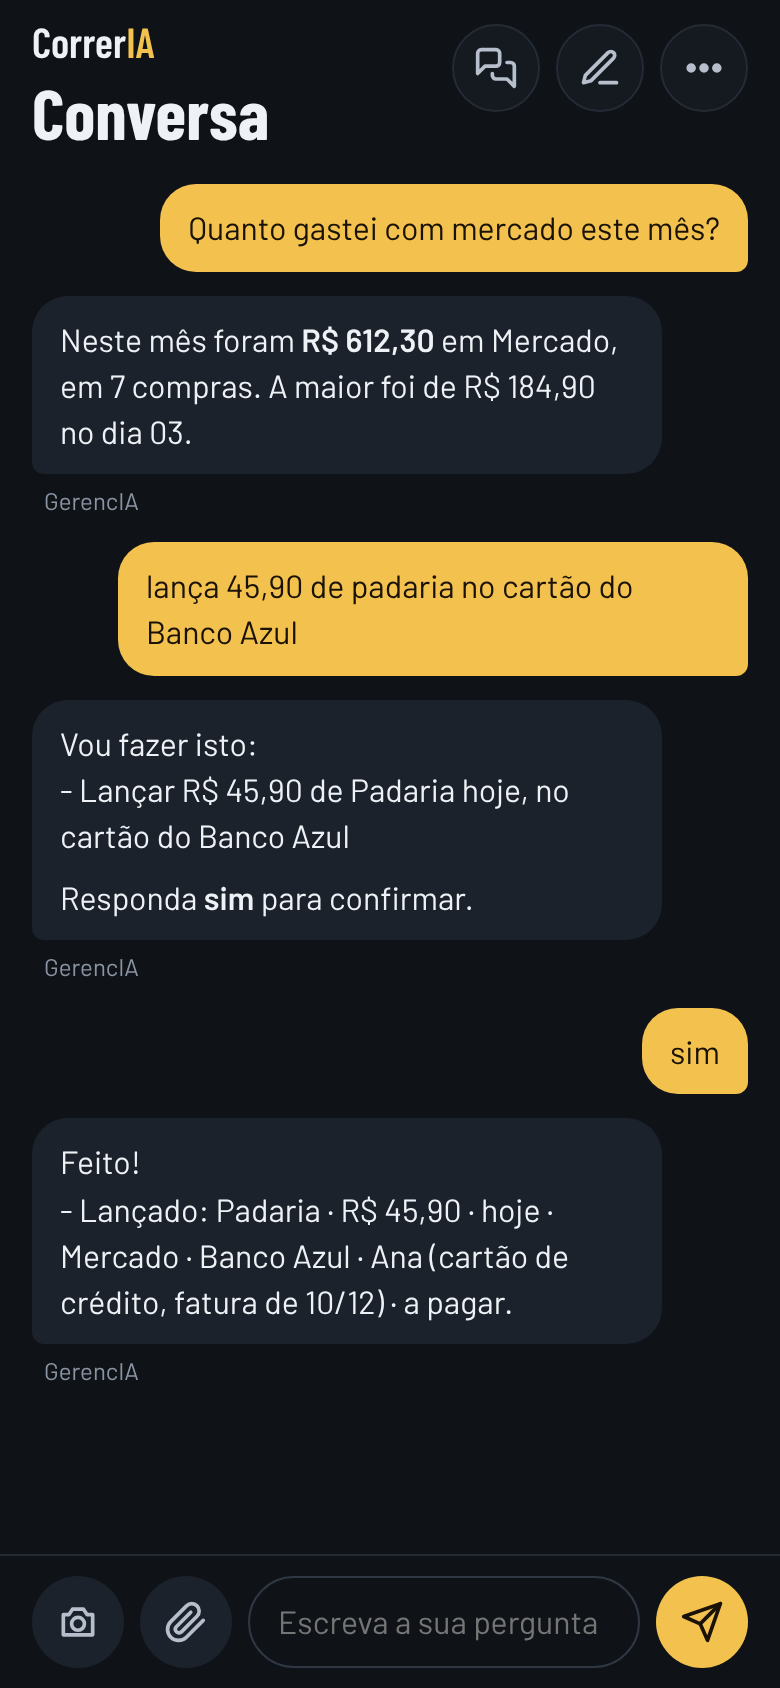
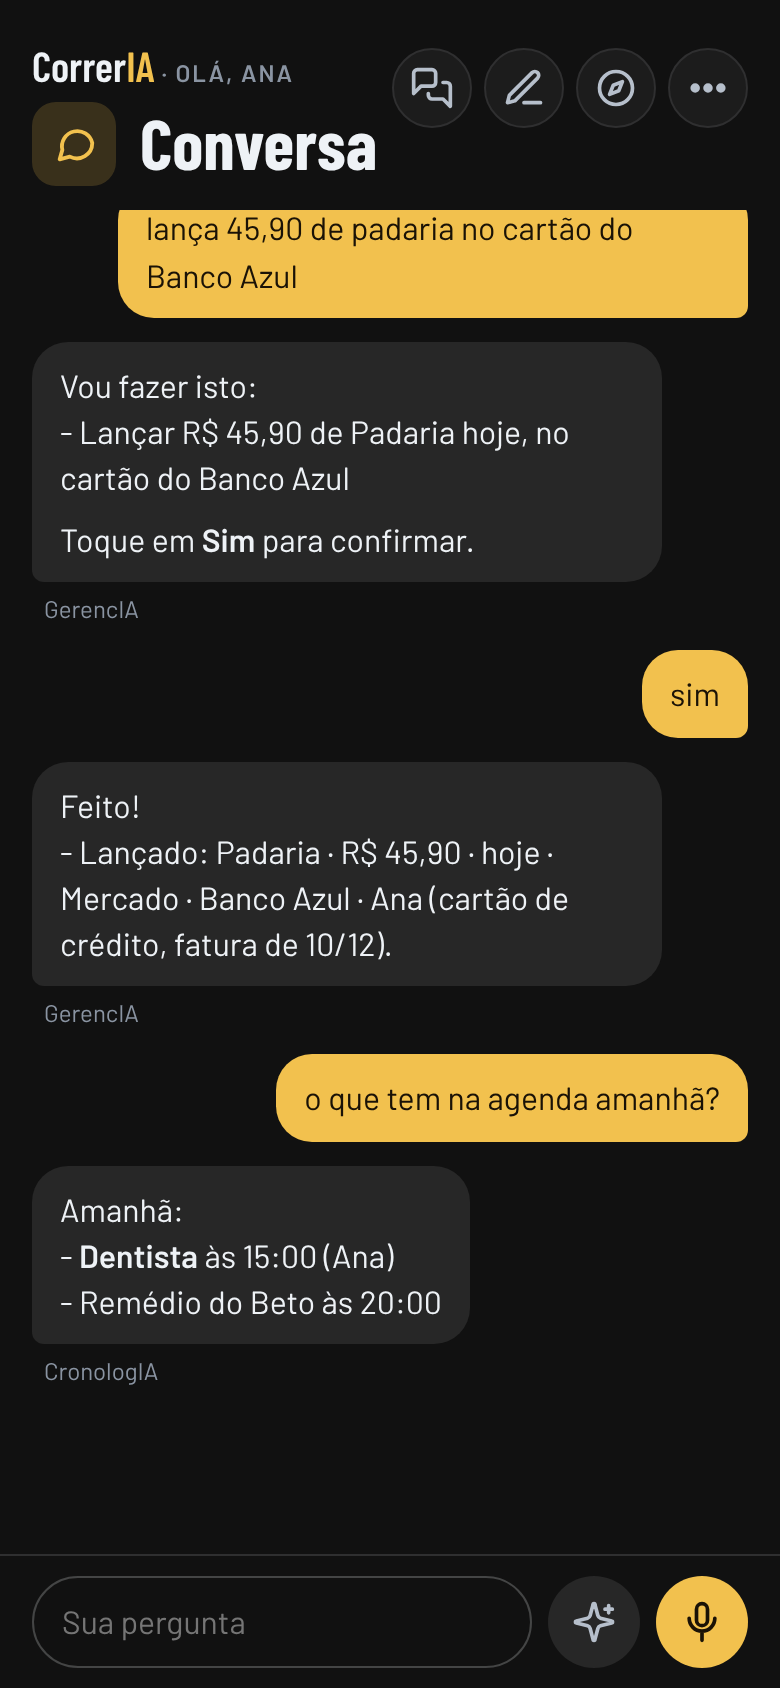
CorrerIA: o README e as capturas em dia (as Rondas, a Conversa e os sete apps)
As capturas agora saem do servidor de verdade, com os apps de mentira e uma
casa inventada (tools/prints_readme.py).

Claude-Session: https://claude.ai/code/session_017hEteHByHThDBu4uLqG9Xn

diff --git a/tools/prints_readme.py b/tools/prints_readme.py
@@ -1,77 +1,141 @@
-"""Refaz as capturas do README (docs/*.png): a tela de verdade (correria/app/www) com /api/* imitado e uma casa inventada
-(Ana, Beto). Uso: python3 tools/prints_readme.py (precisa do playwright)."""
-import json, mimetypes, os, sys
+"""Refaz as capturas do README (docs/*.png) com o servidor de verdade (correria/app/server.py), os apps da família de
+mentira (as ferramentas respondem textos inventados) e uma casa inventada (Ana, Beto, a Sala e a Cozinha).
+Uso: python3 tools/prints_readme.py (precisa do playwright). Nada sai para a internet."""
+import base64
+import hashlib
+import json
+import os
+import secrets
+import sys
+import threading
 from datetime import datetime, timedelta
-from playwright.sync_api import sync_playwright
+from http.server import ThreadingHTTPServer
+from unittest import mock
 
 RAIZ = os.path.dirname(os.path.dirname(os.path.abspath(__file__)))
-WWW, SAIDA = os.path.join(RAIZ, "correria", "app", "www"), os.path.join(RAIZ, "docs")
+sys.path.insert(0, RAIZ)
+from playwright.sync_api import sync_playwright  # noqa: E402
+
+from tests.base import importar_servidor, MetaFalsa  # noqa: E402
+S = importar_servidor()
+import apps  # noqa: E402
+from tests.test_rondas import AppDaRonda, ferr, COM_COMODO  # noqa: E402
+
+SAIDA = os.path.join(RAIZ, "docs")
+CAB = {"X-Remote-User-Id": "u-ana", "X-Remote-User-Display-Name": "Ana Exemplo"}
 agora = datetime.now().replace(second=0, microsecond=0)
-iso = lambda m: (agora - timedelta(minutes=m)).isoformat(timespec="seconds")
-APPS = [
-    {"app": "cronologia", "nome": "CronologIA", "assunto": "agenda da família: compromissos, rotinas, remédios e placar", "versao": "1.60.0", "anexos": [], "conversa": False, "ferramentas": 10, "gravam": 6, "erro": ""},
-    {"app": "gerencia", "nome": "GerencIA", "assunto": "finanças da casa: caixa, contas a pagar, cartões e investimentos", "versao": "1.39.0", "anexos": ["application/pdf", "image/jpeg", "image/png", "image/webp"], "conversa": True, "ferramentas": 12, "gravam": 7, "erro": ""},
-    {"app": "inventario", "nome": "InventarIA", "assunto": "inventário da casa: cômodos, itens e valores", "versao": "1.37.0", "anexos": [], "conversa": False, "ferramentas": 8, "gravam": 5, "erro": ""},
-    {"app": "memoria", "nome": "MemorIA", "assunto": "anotações em blocos: folhas, categorias e links", "versao": "1.8.0", "anexos": [], "conversa": False, "ferramentas": 12, "gravam": 8, "erro": ""},
-    {"app": "resolvia", "nome": "ResolvIA", "assunto": "listas de tarefas com prazos, pontos e repetição", "versao": "2.49.0", "anexos": [], "conversa": False, "ferramentas": 8, "gravam": 4, "erro": ""},
-]
-def estado(pedido=False):
-    return {"versao": "0.4.0",
-            "config": {"numero_id": "109876543210", "token": "••••1234", "segredo": "••••5678", "verificacao": "k3v9-exemplo-verificacao",
-                       "endereco": "https://casa-exemplo.duckdns.org:8443", "webhook": "https://casa-exemplo.duckdns.org:8443/webhook", "ligado": True},
-            "pronto": True, "conta": {"numero": "+55 11 4000-0000", "nome": "CorrerIA Code"},
-            "mcp": {"ligado": True, "url": "https://casa-exemplo.duckdns.org:8443/mcp",
-                    "pedidos": [{"id": "p1", "nome": "Gemini", "host": "gemini.google.com", "codigo": "4821", "em": iso(1)}] if pedido else [],
-                    "conexoes": [{"id": "x1", "nome": "Claude", "pessoa": "Ana", "criado": iso(3000), "usado": iso(12)}]},
-            "ia": {"ok": True, "erro": "", "em": iso(5)},
-            "webhook": {"https": True, "certificado": "fullchain.pem", "porta": 8443, "verificado_em": iso(4000), "ultimo": iso(5)},
-            "pessoas": [{"id": "person.ana", "nome": "Ana", "numero": "5511987650001"}, {"id": "person.beto", "nome": "Beto", "numero": "5521912340002"}],
-            "apps": APPS, "fala": {"pronta": True, "nome": "Home Assistant Cloud"},
-            "aparencia": {"cor": "ouro", "cor_dia": False},
-            "registro": [
-                {"em": iso(5), "tipo": "enviada", "quem": "Beto", "texto": "Feito!\n- Tirar o lixo: concluída por Beto (+5 pontos).", "app": "ResolvIA"},
-                {"em": iso(5), "tipo": "recebida", "quem": "Beto", "texto": "sim", "app": ""},
-                {"em": iso(6), "tipo": "recebida", "quem": "Beto", "texto": "marca o lixo como feito", "app": ""},
-                {"em": iso(12), "tipo": "mcp", "quem": "Claude · Ana", "texto": "Lançado: Padaria · R$ 18,40 · hoje · Mercado · pago.", "app": "GerencIA"},
-                {"em": iso(40), "tipo": "enviada", "quem": "Ana", "texto": "Amanhã: *dentista às 15:00* e o remédio do Beto às 20:00.", "app": "CronologIA"},
-                {"em": iso(41), "tipo": "recebida", "quem": "Ana", "texto": "O que tem amanhã?", "app": ""},
-            ]}
-CONVERSA = {"pessoa": "Ana", "mensagens": [
+iso = lambda m: (agora - timedelta(minutes=m)).isoformat(timespec="seconds")  # noqa: E731
+
+# os apps da família, com o assunto e as ferramentas de leitura que as capturas usam
+APPS = {
+    "cronologia": ("CronologIA", "agenda da família: compromissos, rotinas, remédios e placar",
+                   [ferr("resumo"), ferr("agenda"), ferr("cadastros", COM_COMODO), ferr("criar_compromisso", grava=True)],
+                   {"cadastros": "TOTAL: 1\n- Regar as plantas (toda semana)", "agenda": "TOTAL: 0", "resumo": "TOTAL: 0"}),
+    "gerencia": ("GerencIA", "finanças da casa: caixa, contas a pagar, cartões e investimentos",
+                 [ferr("resumo"), ferr("lancamentos"), ferr("lancar", grava=True)], {"resumo": "Saldo de hoje: R$ 2.340,00."}),
+    "resolvia": ("ResolvIA", "listas de tarefas com prazos, pontos e repetição",
+                 [ferr("tarefas", COM_COMODO), ferr("criar_tarefa", grava=True)],
+                 {"tarefas": "TOTAL: 2\n- Trocar a lâmpada do abajur (vence hoje)\n- Limpar o ar-condicionado"}),
+    "inventario": ("InventarIA", "inventário da casa: cômodos, itens e valores",
+                   [ferr("resumo"), ferr("buscar_itens", COM_COMODO), ferr("cadastrar_itens", grava=True)],
+                   {"resumo": {"comodos": [{"nome": "Sala"}, {"nome": "Cozinha"}, {"nome": "Quarto"}], "opcoes": {"consumiveis": False}},
+                    "buscar_itens": "TOTAL: 3\n- Sofá de 3 lugares\n- Televisão 55\"\n- Abajur"}),
+    "economia": ("EconomIA", "lista de compras com o melhor preço perto de casa",
+                 [ferr("lista"), ferr("por_na_lista", grava=True)], {"lista": "TOTAL: 2\n- Café\n- Detergente"}),
+    "memoria": ("MemorIA", "cadernos de anotação que abrem na hora certa", [ferr("resumo"), ferr("buscar")], {"resumo": "3 blocos."}),
+    "odisseia": ("OdisseIA", "filmes, séries e jogos: o que ver, jogar e onde", [ferr("resumo"), ferr("buscar")], {"resumo": "4 títulos."}),
+}
+
+CONVERSA = [
     {"papel": "eu", "texto": "Quanto gastei com mercado este mês?", "em": iso(9)},
     {"papel": "ia", "texto": "Neste mês foram *R$ 612,30* em Mercado, em 7 compras. A maior foi de R$ 184,90 no dia 03.", "app": "GerencIA", "em": iso(9)},
     {"papel": "eu", "texto": "lança 45,90 de padaria no cartão do Banco Azul", "em": iso(8)},
-    {"papel": "ia", "texto": "Vou fazer isto:\n- Lançar R$ 45,90 de Padaria hoje, no cartão do Banco Azul\n\nResponda *sim* para confirmar.", "app": "GerencIA", "em": iso(8)},
+    {"papel": "ia", "texto": "Vou fazer isto:\n- Lançar R$ 45,90 de Padaria hoje, no cartão do Banco Azul\n\nToque em *Sim* para confirmar.", "app": "GerencIA", "em": iso(8)},
     {"papel": "eu", "texto": "sim", "em": iso(7)},
-    {"papel": "ia", "texto": "Feito!\n- Lançado: Padaria · R$ 45,90 · hoje · Mercado · Banco Azul · Ana (cartão de crédito, fatura de 10/12) · a pagar.", "app": "GerencIA", "em": iso(7)},
-]}
+    {"papel": "ia", "texto": "Feito!\n- Lançado: Padaria · R$ 45,90 · hoje · Mercado · Banco Azul · Ana (cartão de crédito, fatura de 10/12).", "app": "GerencIA", "em": iso(7)},
+    {"papel": "eu", "texto": "o que tem na agenda amanhã?", "em": iso(2)},
+    {"papel": "ia", "texto": "Amanhã:\n- *Dentista* às 15:00 (Ana)\n- Remédio do Beto às 20:00", "app": "CronologIA", "em": iso(2)},
+]
 
-def servir(rota, pedido):
-    u = rota.request.url.split("correria.local", 1)[1].split("?")[0]
-    if u.startswith("/api/estado"):
-        return rota.fulfill(status=200, content_type="application/json", body=json.dumps(estado(pedido)))
-    if u.startswith("/api/conversa"):
-        return rota.fulfill(status=200, content_type="application/json", body=json.dumps(CONVERSA))
-    arq = os.path.join(WWW, "index.html" if u in ("/", "") else u.lstrip("/"))
-    if not os.path.isfile(arq):
-        return rota.fulfill(status=404, body="")
-    with open(arq, "rb") as f:
-        rota.fulfill(status=200, content_type=mimetypes.guess_type(arq)[0] or "application/octet-stream", body=f.read())
 
-with sync_playwright() as pw:
-    nav = pw.chromium.launch()
-    def pagina(tema, pedido=False, altura=844, aba=None):
-        pg = nav.new_page(viewport={"width": 390, "height": altura}, color_scheme=tema, device_scale_factor=2)
-        if aba:
-            pg.add_init_script(f"try {{ localStorage.setItem('correria-aba', '{aba}') }} catch (e) {{}}")
-        pg.route("http://correria.local/**", lambda r: servir(r, pedido))
-        pg.goto("http://correria.local/"); pg.wait_for_selector(".ch-msg.ia"); pg.wait_for_timeout(400)
-        if aba:
-            pg.click('.cab-bts [data-a="mais"]'); pg.click('.mais-menu [data-a="opcoes"]')
-            pg.wait_for_selector(".abas"); pg.wait_for_timeout(300)
-        return pg
-    pg = pagina("dark"); pg.screenshot(path=f"{SAIDA}/conversa.png"); pg.close()
-    pg = pagina("dark", aba="apps"); pg.screenshot(path=f"{SAIDA}/apps.png"); pg.close()
-    pg = pagina("dark", aba="whatsapp"); pg.screenshot(path=f"{SAIDA}/whatsapp.png"); pg.close()
-    pg = pagina("dark", pedido=True, aba="mcp"); pg.screenshot(path=f"{SAIDA}/claude-gemini.png"); pg.close()
-    nav.close()
-print("ok")
+def preparar():
+    falsos = []
+    for app, (nome, assunto, lista, respostas) in APPS.items():
+        a = AppDaRonda(nome, lista, respostas)
+        falsos.append(a)
+        os.makedirs(os.path.join(S.SHARE_DIR, app), exist_ok=True)
+        with open(os.path.join(S.SHARE_DIR, app, "correria.json"), "w", encoding="utf-8") as f:
+            json.dump({"app": app, "nome": nome, "assunto": assunto, "url": a.url, "chave": a.chave, "versao": "2.0.0",
+                       "ferramentas": "/api/integracao/ferramentas"}, f)
+    S.salvar_config({"mcp": True, "whatsapp": True, "endereco": "https://casa-exemplo.duckdns.org:8443",
+                     "endereco_mcp": "https://casa-exemplo.duckdns.org", "numero_id": MetaFalsa.NUMERO_ID, "token": "EAA-exemplo-" + "0" * 20,
+                     "segredo": "segredo-de-exemplo-1234", "pessoas": {"person.ana": "5511987650001", "person.beto": "5521912340002"}})
+    S.ESTADO.update(conta={"numero": "+55 11 4000-0000", "nome": "CorrerIA Code"}, conta_em=iso(30), ultimo_webhook=iso(5))
+    with open(S.CONVERSAS_ARQ, "w", encoding="utf-8") as f:
+        json.dump({"tela": {"u-ana": {"atual": "c1", "lista": [{"id": "c1", "titulo": "Quanto gastei com mercado este mês?", "criada": iso(9),
+                                                                "atualizada": iso(2), "mensagens": CONVERSA}]}}}, f)
+    return falsos
+
+
+def pedido_mcp():
+    cli = S.AUT.registrar({"client_name": "Gemini", "redirect_uris": ["https://gemini.google.com/mcp/callback"], "token_endpoint_auth_method": "none"})
+    v = secrets.token_urlsafe(48)
+    d = base64.urlsafe_b64encode(hashlib.sha256(v.encode()).digest()).rstrip(b"=").decode()
+    S.AUT.pedir({"response_type": ["code"], "client_id": [cli["client_id"]], "code_challenge": [d], "code_challenge_method": ["S256"]}, "https://x")
+
+
+def main():
+    meta = MetaFalsa()
+    falsos = preparar()
+    with mock.patch.object(S, "GRAPH", meta.url), mock.patch.object(S, "APPS", apps.Apps(S.SHARE_DIR, S.log, cache=0)), \
+            mock.patch.object(S, "pessoas_ha", return_value=[{"id": "person.ana", "nome": "Ana", "usuario": "u-ana"}, {"id": "person.beto", "nome": "Beto", "usuario": "u-beto"}]):
+        srv = ThreadingHTTPServer(("127.0.0.1", 0), S.Tela)
+        srv.daemon_threads = True
+        threading.Thread(target=srv.serve_forever, daemon=True).start()
+        url = f"http://127.0.0.1:{srv.server_address[1]}/"
+        with sync_playwright() as pw:
+            nav = pw.chromium.launch()
+
+            def pagina(aba=None):
+                pg = nav.new_page(viewport={"width": 390, "height": 844}, color_scheme="dark", device_scale_factor=2, extra_http_headers=CAB)
+                pg.goto(url)
+                pg.wait_for_selector(".ch-msg.ia")
+                pg.wait_for_timeout(500)
+                if aba:
+                    pg.click('[data-a="mais"]')
+                    pg.click('[data-a="opcoes"]')
+                    pg.wait_for_selector(".abas")
+                    pg.click(f'.abas [data-v="{aba}"]')
+                    pg.wait_for_timeout(500)
+                return pg
+
+            pg = pagina()
+            pg.screenshot(path=f"{SAIDA}/conversa.png")
+            # a Ronda da casa na Sala: o que o app tem e a pergunta (a IA simulada lê o app)
+            pg.click('[data-a="rondas"]')
+            pg.wait_for_selector(".ch-ronda-onde .btn")
+            pg.click(".ch-ronda-onde .btn >> text=Sala")
+            pg.wait_for_selector(".ch-ronda-t b >> text=Sala")
+            pg.wait_for_timeout(600)
+            pg.screenshot(path=f"{SAIDA}/rondas.png")
+            pg.close()
+            pg = pagina("apps")
+            pg.screenshot(path=f"{SAIDA}/apps.png")
+            pg.close()
+            pg = pagina("whatsapp")
+            pg.screenshot(path=f"{SAIDA}/whatsapp.png")
+            pg.close()
+            pedido_mcp()
+            pg = pagina("mcp")
+            pg.wait_for_selector(".pedido")
+            pg.screenshot(path=f"{SAIDA}/claude-gemini.png")
+            pg.close()
+            nav.close()
+        srv.shutdown()
+    for a in falsos + [meta]:
+        a.fechar()
+    print("ok")
+
+
+if __name__ == "__main__":
+    main()

diff --git a/README.md b/README.md
@@ -2,14 +2,25 @@
 
 ![CorrerIA](correria/logo.png)
 
-Um App do Home Assistant que junta os apps no **WhatsApp** (um contato da CorrerIA Code, pela API oficial do WhatsApp Business), e em outras IAs, como um **conector MCP**. Pergunte ("quanto gastei com mercado este mês?", "o que tem na agenda amanhã?") e peça ("lança 45 de mercado", "marca a tarefa do lixo como feita"): a IA usa as ferramentas de cada app, e as mudanças só acontecem com a sua confirmação.
+Um App do Home Assistant que junta os apps da família num lugar só: a **Conversa** da própria tela, o **WhatsApp** (um contato da CorrerIA Code, pela API oficial do WhatsApp Business) e outras IAs, como o Claude e o Gemini, por um **conector MCP**. Pergunte ("quanto gastei com mercado este mês?", "o que tem na agenda amanhã?") e peça ("lança 45 de mercado", "marca a tarefa do lixo como feita"): a IA usa as ferramentas de cada app, e as mudanças só acontecem com o seu **Sim**.
 
 <p align="center">
-  <img src="docs/conversa.png" width="24%" alt="A conversa com a IA: perguntar e lançar com o sim">
-  <img src="docs/apps.png" width="24%" alt="Configurações › Integrações: os apps e o que cada um faz">
-  <img src="docs/whatsapp.png" width="24%" alt="Configurações › WhatsApp: a conta da Meta">
-  <img src="docs/claude-gemini.png" width="24%" alt="Configurações › MCP: o pedido de conexão com o código">
+  <img src="docs/conversa.png" width="19%" alt="A Conversa com a IA: perguntar, lançar com o Sim e a agenda de amanhã">
+  <img src="docs/rondas.png" width="19%" alt="A Ronda da casa na Sala: o que o app tem e uma pergunta de cada vez">
+  <img src="docs/apps.png" width="19%" alt="Configurações › Integrações: os apps da família e o que cada um faz">
+  <img src="docs/whatsapp.png" width="19%" alt="Configurações › WhatsApp: a conta da Meta e quem conversa">
+  <img src="docs/claude-gemini.png" width="19%" alt="Configurações › MCP: o pedido de conexão com o código">
 </p>
+
+## O que tem
+
+- **Conversa**: perguntas e pedidos para todos os apps de uma vez, com fotos e PDFs (o app do assunto lê), o **Falar** e as perguntas prontas. Cada mudança mostra o que vai fazer e espera o **Sim**; o **Desfazer** volta atrás.
+- **Rondas**: um roteiro pronto pelos apps, **uma pergunta de cada vez**, com o que cada app já tem antes da pergunta. A **Ronda da casa** passa cômodo por cômodo (tarefas, rotinas, manutenções, itens, consumíveis, compras e o que ficou ligado); há também as do dia, da noite, da semana, do mês, das compras, da chegada das compras, das finanças, do patrimônio, das anotações, do lazer e da viagem. Dá para mudar qualquer uma, criar as suas e receber o aviso no celular quando uma ficar atrasada.
+- **WhatsApp**: as pessoas da casa conversam com os apps pelo WhatsApp, também por áudio e foto.
+- **Claude, Gemini e outras IAs**: o conector MCP, com login aprovado no painel do Home Assistant.
+- **A casa**: "apaga a luz da sala", "o que ficou ligado?" vão para o Assist do Home Assistant.
+- **Memória da IA**: uma memória só, da casa, compartilhada por todos os apps.
+- **Tela cheia**: num monitor, o painel da CronologIA com a Conversa ao lado.
 
 ## Instalação
 
@@ -28,10 +39,16 @@ Um App do Home Assistant que junta os apps no **WhatsApp** (um contato da Correr
 
 | App | O que é |
 |---|---|
-| [GerencIA](https://github.com/diegozapella63/gerencia-ha) | finanças: caixa, cartões, investimentos |
 | [CronologIA](https://github.com/diegozapella63/cronologia-ha) | agenda da família, remédios, rotinas e placar |
 | [ResolvIA](https://github.com/diegozapella63/resolvia-ha) | listas de tarefas com prazos, pontos e repetição |
+| [GerencIA](https://github.com/diegozapella63/gerencia-ha) | finanças: caixa, cartões, investimentos |
 | [InventarIA](https://github.com/diegozapella63/inventario-ha) | inventário da casa: cômodos, itens e valores |
+| [EconomIA](https://github.com/diegozapella63/economia-ha) | lista de compras com o melhor preço perto de casa |
 | [MemorIA](https://github.com/diegozapella63/memoria-ha) | cadernos de anotação que abrem na hora certa |
+| [OdisseIA](https://github.com/diegozapella63/OdisseIA) | filmes, séries e jogos: o que ver, jogar e onde |
+
+## Desenvolvimento
+
+Rodar no computador, os testes e as capturas deste README (`python3 tools/prints_readme.py`, com uma casa inventada): veja o [AGENTS.md](AGENTS.md) e o [tests/README.md](tests/README.md).
 
 Feito por **CorrerIA Code** · desenvolvimento de softwares.
